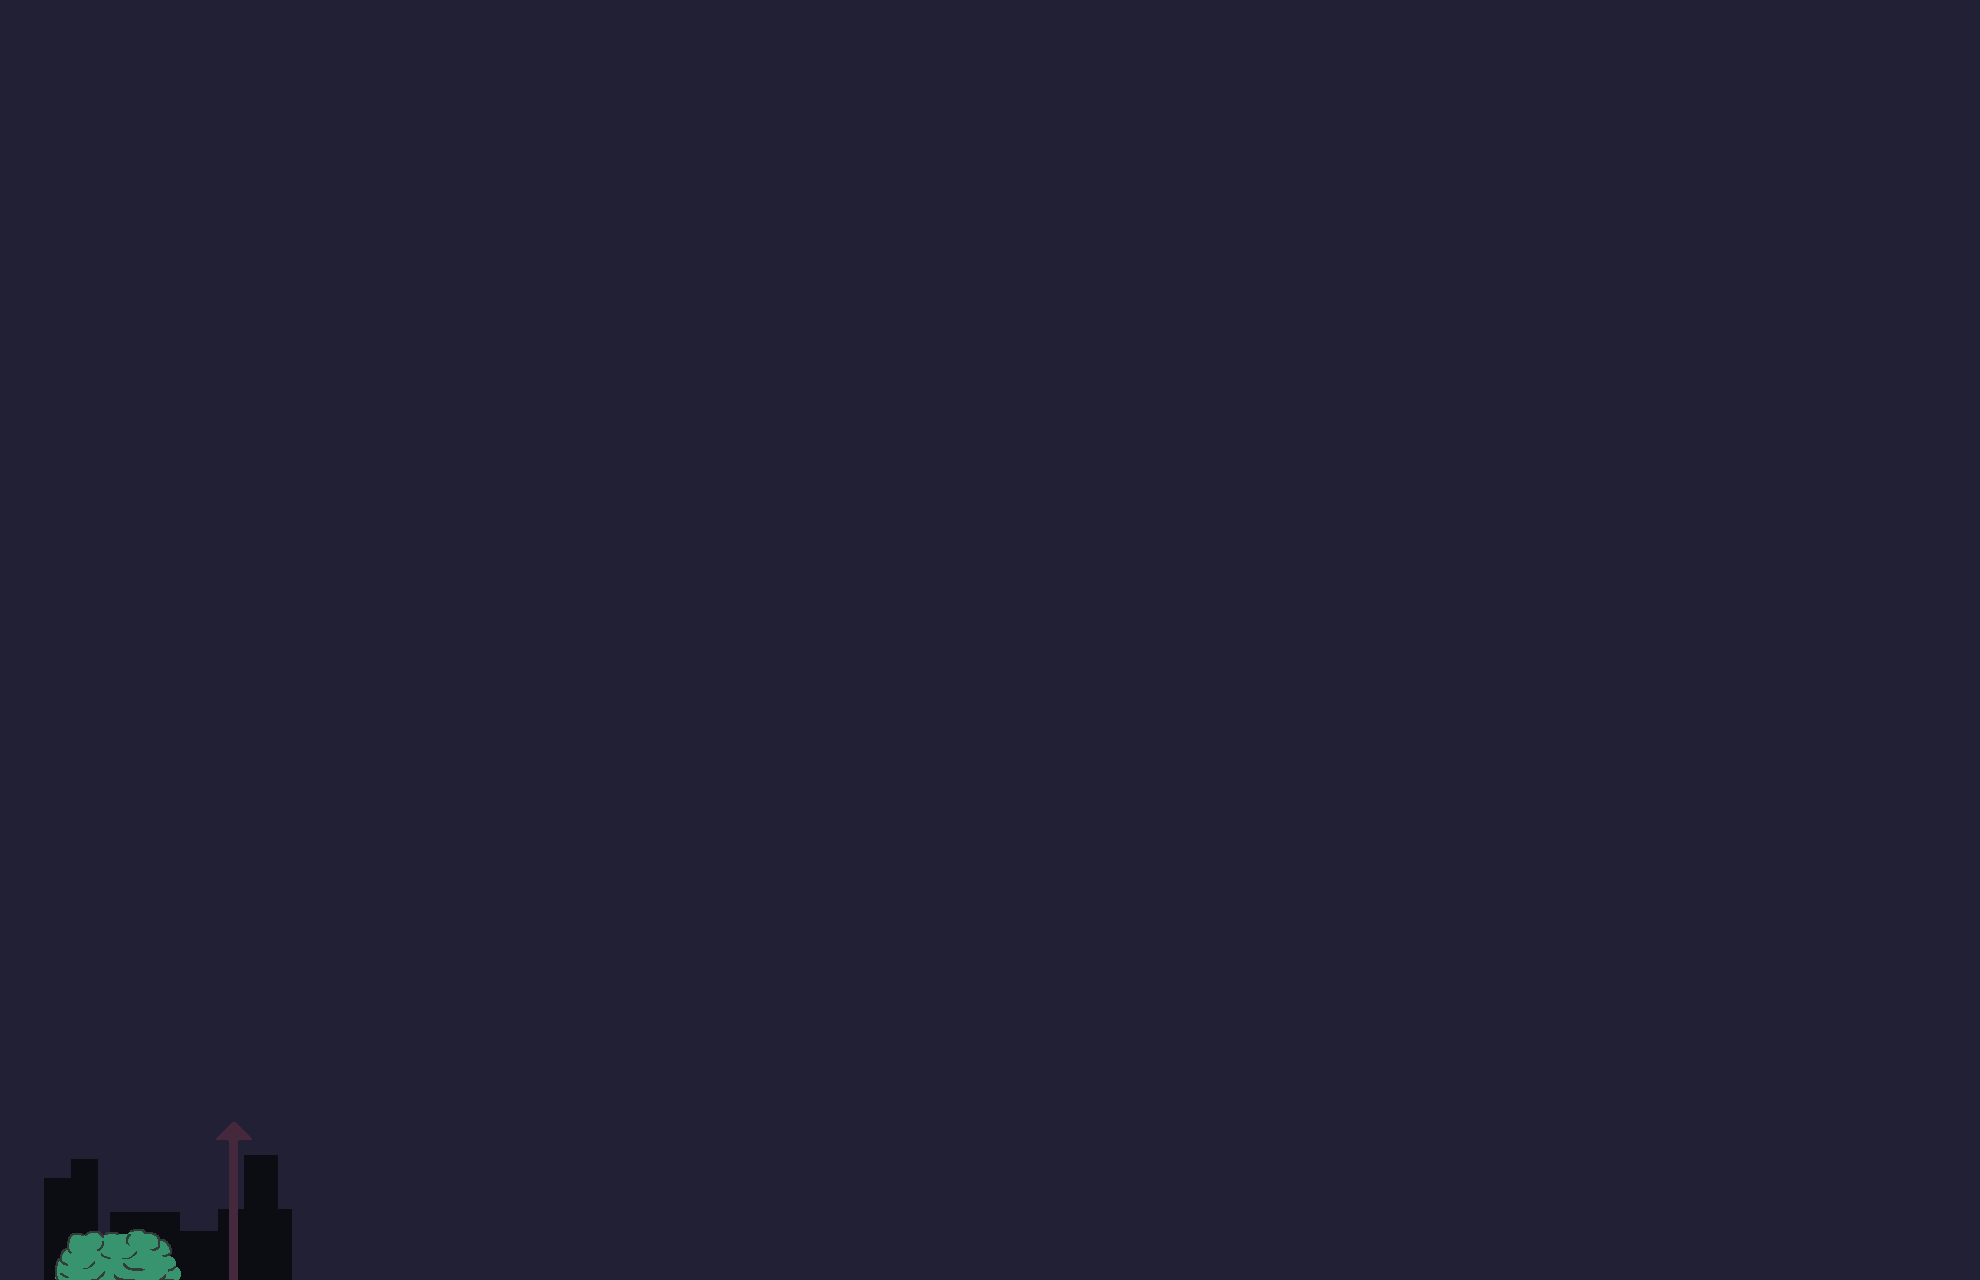
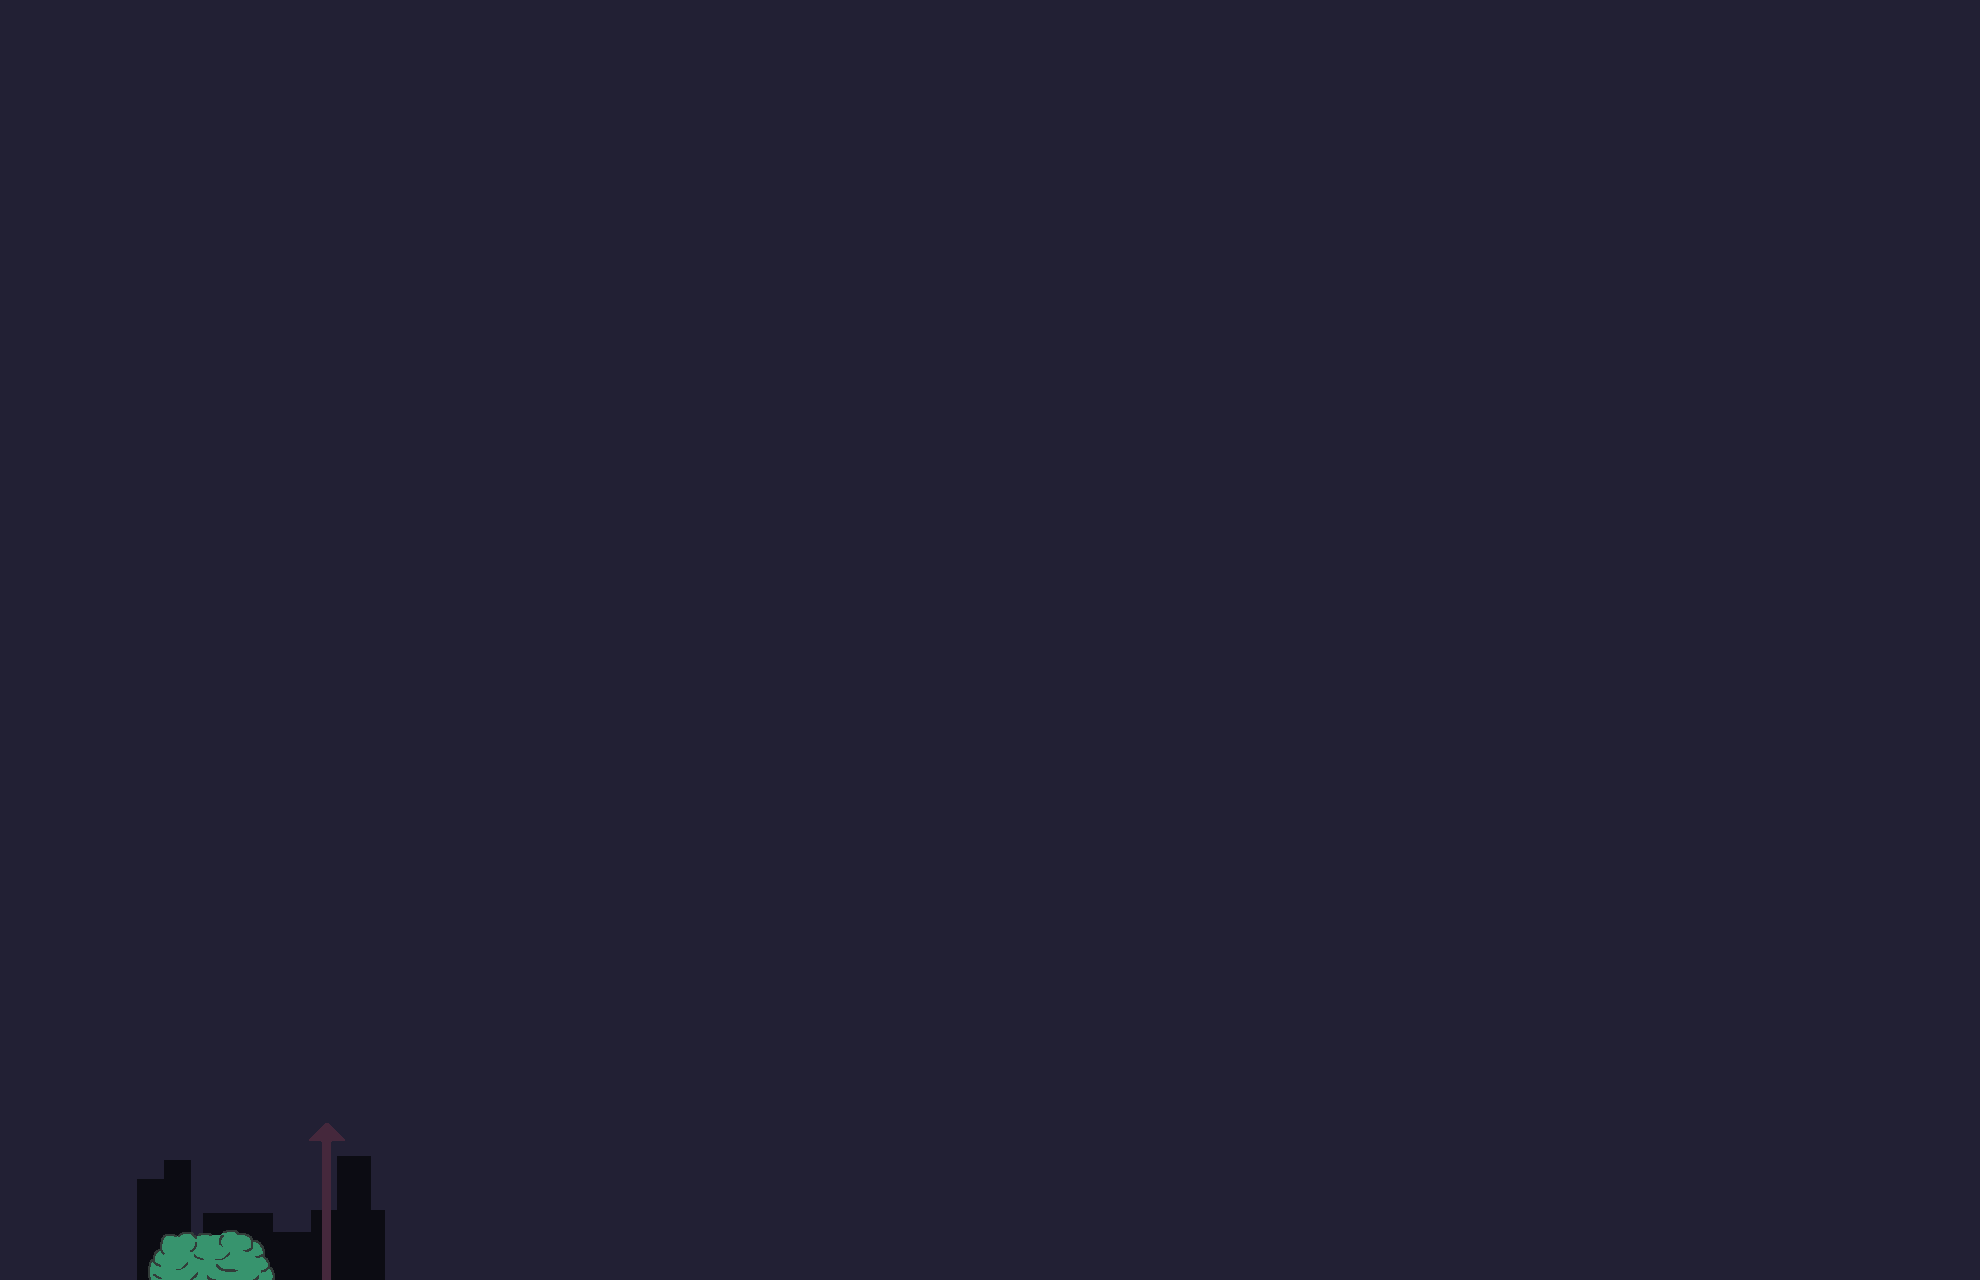
Added badguy sprite and fixed body collider

Changed region(s): [[0.0, 0.875, 0.2157, 1.0]]

diff --git a/src/scenes/GameScene.js b/src/scenes/GameScene.js
@@ -2,6 +2,8 @@ import _ from 'underscore';
 
 import Phaser from 'phaser';
 import Chameleon from '../objects/Chameleon';
+import BadGuy from '../objects/BadGuy';
+
 import Background from '../objects/Background';
 import TextBox from '../objects/TextBox';
 import TextInput from '../objects/TextInput';
@@ -21,6 +23,7 @@ export default class GameScene extends Phaser.Scene
         const scene = this;
 
         Chameleon.load(scene);
+        BadGuy.load(scene);
         Background.load(scene);
         const colorListElem = document.querySelector('#color-list');
         colorData.forEach((color) => {
@@ -37,17 +40,20 @@ export default class GameScene extends Phaser.Scene
         //background, camera, and world
         this.bg = new Background(scene);
         //Not sure why we need to raise it 32 pixels here
-        this.physics.world.setBounds(0, 0, this.bg.width, this.bg.height-32);
-        cam.setBounds(0, 0, this.bg.width, this.bg.height);
-        cam.scrollX = 0;
+        this.physics.world.setBounds(0, 0, this.bg.width, this.bg.height);
+        // cam.setBounds(0, 0, this.bg.width, this.bg.height);
+        cam.scrollX = 64;
         cam.scrollY = this.bg.height - 160;
 
         //UI
         this.visibilityMeter = new VisibilityMeter(scene, 10, 10);
         this.text = new TextInput(scene);
 
+        //Actors
         this.player = new Chameleon(scene);
         this.player.setColor('#ac3232');
+
+        this.badguy = new BadGuy(scene);
 
         //On color-change event, change color of chameleon
         this.events.on('color-change', (colorName) => {
@@ -58,8 +64,17 @@ export default class GameScene extends Phaser.Scene
             this.player.setColor(color.hex);
         });
 
+        //Events
         this.events.on('tutorial', () => {
-            setTimeout(() => this.events.emit('tutorial-complete'), 3000);
+            this.text.writeToTextInput('Type color, hit enter', 3000);
+            this.text.input.focus();
+
+            this.events.once('hidden', () => this.events.emit('tutorial-complete'));
+        });
+
+        this.events.on('bad-guy-1', () => {
+            this.text.writeToTextInput('Type color, hit enter', 3000);
+            this.text.input.focus();
         });
 
         this.sequencer.go();
@@ -68,6 +83,8 @@ export default class GameScene extends Phaser.Scene
     update() {
         this.visibilityMeter.fillBarTo(this.getChameleonVisibility());
         this.player.update();
+        this.badguy.update();
+        this.visibilityMeter.update();
     }
 
     getColorBehindChameleon() {

diff --git a/src/objects/BadGuy.js b/src/objects/BadGuy.js
@@ -1,0 +1,83 @@
+import _ from 'underscore';
+
+import Phaser from 'phaser';
+import StateMachine from '../util/StateMachine';
+
+export default class BadGuy extends Phaser.Physics.Arcade.Sprite {
+    constructor(scene) {
+        super(scene, 120, 1280, 'idle', 0);
+        scene.add.existing(this);
+        scene.physics.world.enableBody(this);
+        this.setCollideWorldBounds();
+
+        this.height = 130;
+        this.width = 120;
+
+        this.body.setSize(this.width, this.height);
+        
+        //Properties
+        this.facing = 1;
+
+        //Behaviour
+        this.stateMachine = new StateMachine(this);
+        this.stateMachine.setState(this.walk, 1);
+
+        //Animations
+        scene.anims.create({
+            key: 'badguy-idle',
+            frames: scene.anims.generateFrameNumbers('badguy-spritesheet', { start: 0, end: 0 }),
+            frameRate: 2,
+            repeat: -1,
+        });
+
+        //Poses
+        scene.anims.create({
+            key: 'bad-buy-bug-eyed',
+            frames: scene.anims.generateFrameNumbers('badguy-spritesheet', { start: 1, end: 1}),
+            frameRate: 2,
+            repeat: -1,
+        });
+
+        //Event Listeners
+        this.scene.events.on('badguy-act', (a) => {
+            this.stateMachine.setState(this[a.action], a.actionArgs);
+        });
+    }
+
+    static load(scene) {
+        scene.load.spritesheet('badguy-spritesheet', 'guy.png', {
+            frameWidth: 120, frameHeight: 130,
+        });
+    }
+
+    update() {
+        this.stateMachine.update();
+    }
+
+    switchAnimation(key) {
+        if (this.anims.getCurrentKey() !== key) {
+            this.anims.play(key);
+        }
+    }
+
+    changeFacing(dir) {
+        this.facing = dir || this.facing;
+        this.facing === 1 ? this.flipX = false : this.flipX = true;
+    }
+
+    //States
+    walk(dir) {
+        this.switchAnimation('badguy-idle');
+        this.changeFacing(dir);
+        
+        // if (this.body.collideWorldBounds) {
+        //     this.setVelocityX(4);
+        //     this.setVelocityY(-4);
+        // }
+    }
+    
+    idle(facing) {
+        this.changeFacing(facing);
+        this.switchAnimation('idle');
+    }
+}

diff --git a/src/objects/VisibilityMeter.js b/src/objects/VisibilityMeter.js
@@ -12,6 +12,9 @@ export default class VisibilityMeter extends Phaser.GameObjects.Container {
 
         this.bar.setOrigin(0, 0);
         this.visibilityBar.setOrigin(0, 0);
+        this.percentage = 0;
+        this.targetWidth = 0;
+        this.hidden = false;
         
         this.add(this.bar);
         this.add(this.visibilityBar);
@@ -21,6 +24,30 @@ export default class VisibilityMeter extends Phaser.GameObjects.Container {
     }
 
     fillBarTo(percentage) {
-        this.visibilityBar.width = percentage * (this.width / 100);
+        this.percentage = percentage;
+        this.targetWidth = percentage * (this.width / 100);
+    }
+
+    update(delta) {
+        this.visibilityBar.width = Phaser.Math.Interpolation.Linear(
+            [this.visibilityBar.width, this.targetWidth],
+            0.1
+        );
+
+        if (this.percentage <= 10) {
+            this.visibilityBar.fillColor = 0x6abe30;
+            if(!this.hidden) {
+                this.hidden = true;
+                this.scene.events.emit('hidden');
+            }
+        } else if (this.percentage < 50) {
+            this.visibilityBar.fillColor = 0xe17e3b;
+        } else {
+            this.visibilityBar.fillColor = 0xac3232;
+        }
+
+        if (this.percentage > 10) {
+            this.hidden = false;
+        }
     }
 }

diff --git a/src/lib/levelSequence.js b/src/lib/levelSequence.js
@@ -8,7 +8,7 @@ const levelSequence = [
     //Chameleon Enters Frame
     {
         checkpoint: 'start',
-        wait: 1250,
+        wait: 3000,
     },
     //Chameleon stops at bush - start tutorial
     {
@@ -16,10 +16,16 @@ const levelSequence = [
         event: 'tutorial',
         waitFor: 'tutorial-complete',
     },
+    //Idle for a moment
+    {
+        wait: 2000,
+    },
     //Camera pans up, and something strolls by, stopping just behind the bush.
     {
         wait: 4000,
         scroll: [0, -50, 1000],
+        event: 'bag-guy-1',
+        waitFor: 'bag-guy-1-complete',
     },
     //The camera pans down, showing the chameleon wall-hugging the bush
     {

diff --git a/src/objects/Chameleon.js b/src/objects/Chameleon.js
@@ -5,13 +5,19 @@ import StateMachine from '../util/StateMachine';
 
 export default class Chameleon extends Phaser.Physics.Arcade.Sprite {
     constructor(scene) {
-        super(scene, 50, 1280-64, 'idle', 0);
+        super(scene, -64, 1280, 'idle', 0);
         scene.add.existing(this);
         scene.physics.world.enableBody(this);
         this.setCollideWorldBounds();
+
+        this.height = 64;
+        this.width = 64;
+
+        this.body.setSize(this.width, this.height);
         
         //Properties
         this.skinColor = 0xffffff;
+        this.targetSkinColor = 0xffffff;
         this.facing = 1;
 
         //Behaviour

diff --git a/src/objects/TextInput.js b/src/objects/TextInput.js
@@ -22,4 +22,13 @@ export default class TextInput {
     getValue() {
         return this.input.value;
     }
+
+    writeToTextInput(message, duration) {
+        let i = 0;
+        const interval = setInterval(() => {
+            this.input.setAttribute('placeholder', message.slice(0, i));
+            i++;
+            if (i > message.length) clearInterval(interval);
+        }, duration / message.length);
+    }
 }

diff --git a/src/main.js b/src/main.js
@@ -4,6 +4,7 @@ import GameScene from './scenes/GameScene'
 const config = {
 	type: Phaser.AUTO,
 	parent: 'game',
+	
 	width: 320,
 	height: 160,
 	scale: {
@@ -15,7 +16,10 @@ const config = {
 	physics: {
 		default: 'arcade',
 		arcade: {
-			gravity: { y: 200 }
+			gravity: { y: 200 },
+			debug: true,
+			debugShowBody: true,
+			debugBodyColor: 0x00ff00,
 		}
 	},
 	scene: [GameScene]

diff --git a/src/lib/events.js b/src/lib/events.js
@@ -1,0 +1,12 @@
+import Phaser from 'phaser';
+
+export default class EventManager {
+    constructor(scene) {
+        this.scene = scene;
+        this.events = scene.events;
+    }
+
+    addEventListeners() {
+        
+    }
+}
